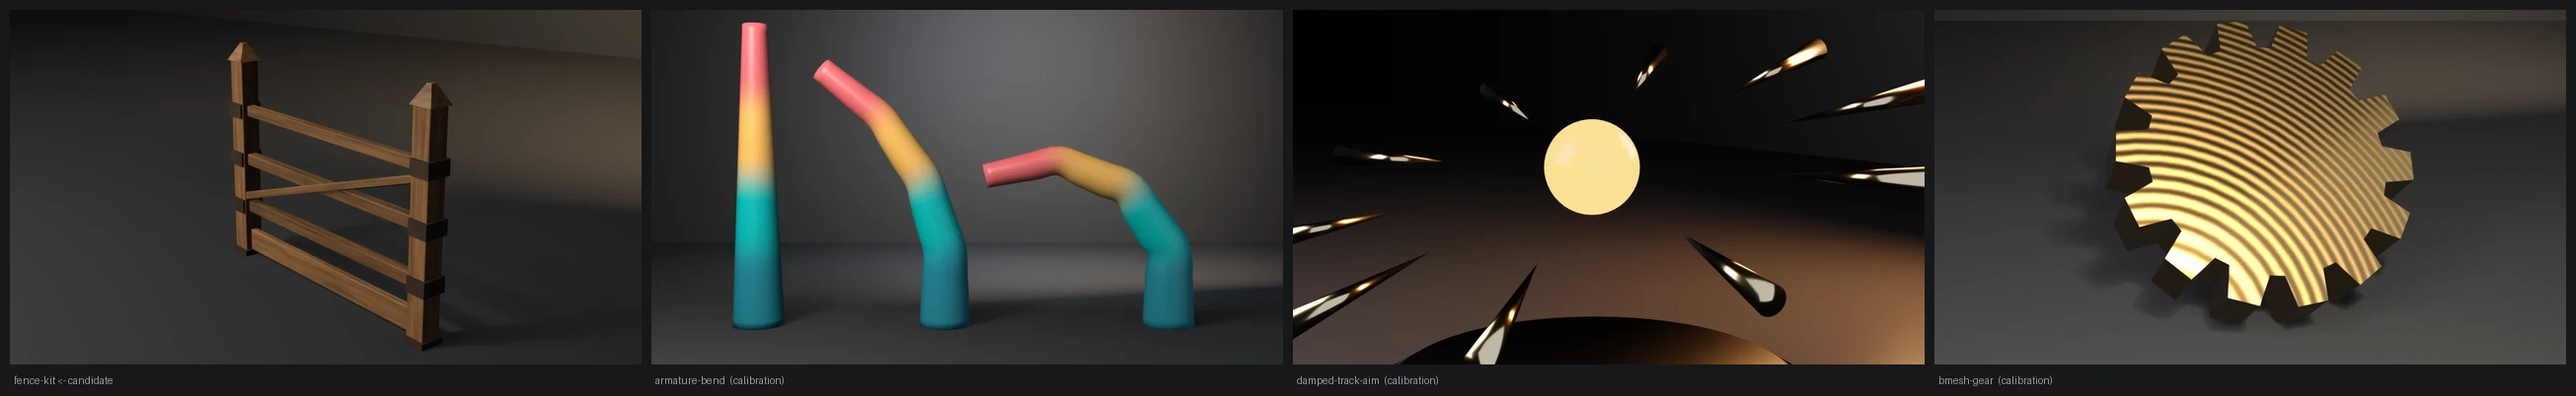
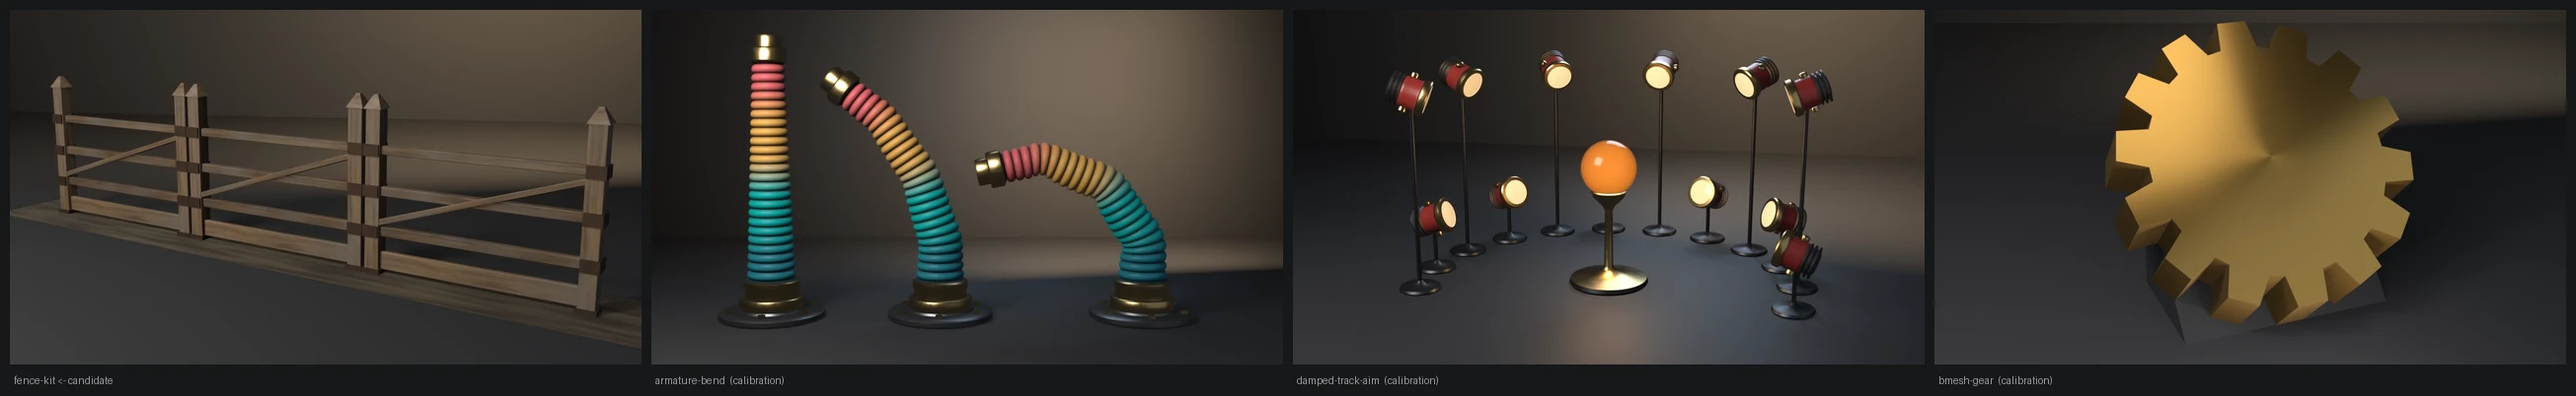
fix(showcase): redesign fence-kit hero as a weathered three-section run
The hero now shows the kit doing its job. Three linked duplicates of the
one checked mesh stand at the 1.60 m tile pitch, so every joint in the
picture is the tile fit the budgets assert: paired posts meet band to band,
KIT_CLEAR apart. The run stands in a render-only packed-earth strip, and the
wood weathers in broad silver-grey patches (object-space noise) over the
per-member tone and grain. Geometry, budgets and falsifiers are unchanged.
The strip and duplicates are staging, and the asset sheet judges the single
FenceLow section.

scripts/asset_sheet.py gains SELECT rows for fence-kit, wooden-ladder and
terrain-scatter, which had none, so the asset-sheet gate could not run on
them.

Evidence (live runs, local):
- E:/Blender-Developer-Tools/.scratch/blender-5.2.1-windows-x64/blender.exe
  (Blender 5.2.1 LTS) and .../blender-4.5.11-windows-x64/blender.exe
  (Blender 4.5.11 LTS): default exit 0 on both. Falsifiers on both:
  --skip-decimate 9, --stray-vert 15, --lift-z 16, --short-shoes 16,
  --short-brace 17, --gap-rails 18, --long-rails 19, --float-brace 20,
  --wide-tile 21, all as documented.
- --output renders on both versions. Framing (5.2.1): fill x=0.894 y=0.678,
  margins l=0.066 r=0.041 b=0.133 t=0.189.
- Contact sheet: candidate luma 0.230 / stage 0.213 / warmth +0.135 /
  sat 0.184, against armature-bend 0.243/0.192/-0.144/0.237, damped-track-aim
  0.237/0.218/+0.105/0.178, and bmesh-gear 0.236/0.177/+0.303/0.250. Every
  axis is inside the calibration band.
[…]

diff --git a/showcase/fence-kit/fence_kit.py b/showcase/fence-kit/fence_kit.py
@@ -590,9 +590,9 @@ def wood_material(name):
     nt.links.new(shift.outputs["Vector"], noise.inputs["Vector"])
     ramp = nt.nodes.new("ShaderNodeValToRGB")
     ramp.color_ramp.elements[0].position = 0.30
-    ramp.color_ramp.elements[0].color = (0.12, 0.052, 0.018, 1.0)
+    ramp.color_ramp.elements[0].color = (0.085, 0.052, 0.030, 1.0)
     ramp.color_ramp.elements[1].position = 0.72
-    ramp.color_ramp.elements[1].color = (0.38, 0.18, 0.065, 1.0)
+    ramp.color_ramp.elements[1].color = (0.30, 0.19, 0.105, 1.0)
     nt.links.new(noise.outputs["Fac"], ramp.inputs["Fac"])
     gain = nt.nodes.new("ShaderNodeMath")
     gain.operation = "MULTIPLY_ADD"
@@ -605,7 +605,23 @@ def wood_material(name):
     _sock(mix.inputs, "Factor_Float").default_value = 1.0
     nt.links.new(ramp.outputs["Color"], _sock(mix.inputs, "A_Color"))
     nt.links.new(gain.outputs["Value"], _sock(mix.inputs, "B_Color"))
-    nt.links.new(_sock(mix.outputs, "Result_Color"), bsdf.inputs["Base Color"])
+    # Weathering: outdoor timber silvers in broad patches, not uniformly.
+    # A coarse object-space noise pulls the grain toward weathered grey.
+    silver = nt.nodes.new("ShaderNodeTexNoise")
+    silver.inputs["Scale"].default_value = 2.4
+    silver.inputs["Detail"].default_value = 4.0
+    nt.links.new(coord.outputs["Object"], silver.inputs["Vector"])
+    patch = nt.nodes.new("ShaderNodeMapRange")
+    patch.inputs["From Min"].default_value = 0.42
+    patch.inputs["From Max"].default_value = 0.68
+    patch.inputs["To Max"].default_value = 0.55
+    nt.links.new(silver.outputs["Fac"], patch.inputs["Value"])
+    weather = nt.nodes.new("ShaderNodeMix")
+    weather.data_type = "RGBA"
+    _sock(weather.inputs, "B_Color").default_value = (0.20, 0.19, 0.17, 1.0)
+    nt.links.new(patch.outputs["Result"], _sock(weather.inputs, "Factor_Float"))
+    nt.links.new(_sock(mix.outputs, "Result_Color"), _sock(weather.inputs, "A_Color"))
+    nt.links.new(_sock(weather.outputs, "Result_Color"), bsdf.inputs["Base Color"])
     rough = nt.nodes.new("ShaderNodeMapRange")
     rough.inputs["To Min"].default_value = 0.72
     rough.inputs["To Max"].default_value = 0.52
@@ -1246,8 +1262,64 @@ def render_still(low, wood, tex, path, engine):
             ob.hide_render = True
             ob.hide_viewport = True
 
-    # Level on the floor: an X tilt sinks one face of the shoes.
-    low.rotation_euler.z = math.radians(-16.0)
+    # The hero is the kit doing its job: three sections at the tile pitch,
+    # linked duplicates of the one checked mesh, so every joint in the
+    # picture is the tile fit the check asserts (posts meet band to band,
+    # KIT_CLEAR apart). A run parent carries the yaw; level on the floor,
+    # since an X tilt sinks one face of the shoes.
+    run = bpy.data.objects.new("FenceRun", None)
+    scene.collection.objects.link(run)
+    run.rotation_euler.z = math.radians(-24.0)
+    sections = [low]
+    for i in (-1, 1):
+        dup = bpy.data.objects.new(f"{low.name}.Run{i:+d}", low.data)
+        scene.collection.objects.link(dup)
+        dup.location.x = i * TILE
+        sections.append(dup)
+    for ob in sections:
+        ob.parent = run
+
+    # A render-only packed-earth strip the run stands in: a low bevelled
+    # slab with a worn centre, so the sections read as installed, not as
+    # props parked on a studio floor. Not part of the asset or its budgets.
+    path_me = bpy.data.meshes.new("PathStrip")
+    bm = bmesh.new()
+    try:
+        bmesh.ops.create_cube(bm, size=1.0)
+        for v in bm.verts:
+            v.co.x *= TILE * 3 + 0.9
+            v.co.y *= 0.78
+            v.co.z = (v.co.z + 0.5) * 0.02 - 0.019
+        bmesh.ops.bevel(bm, geom=sorted(bm.edges, key=lambda e: e.index), offset=0.012,
+                        segments=2, affect="EDGES", profile=0.5, clamp_overlap=True)
+        bm.to_mesh(path_me)
+    finally:
+        bm.free()
+    for poly in path_me.polygons:
+        poly.use_smooth = True
+    pmat = bpy.data.materials.new("PackedEarth")
+    pmat.use_nodes = True
+    pnt = pmat.node_tree
+    pb = pnt.nodes["Principled BSDF"]
+    pnoise = pnt.nodes.new("ShaderNodeTexNoise")
+    pnoise.inputs["Scale"].default_value = 9.0
+    pnoise.inputs["Detail"].default_value = 8.0
+    pramp = pnt.nodes.new("ShaderNodeValToRGB")
+    pramp.color_ramp.elements[0].position = 0.35
+    pramp.color_ramp.elements[0].color = (0.035, 0.026, 0.018, 1.0)
+    pramp.color_ramp.elements[1].position = 0.70
+    pramp.color_ramp.elements[1].color = (0.11, 0.085, 0.055, 1.0)
+    pnt.links.new(pnoise.outputs["Fac"], pramp.inputs["Fac"])
+    pnt.links.new(pramp.outputs["Color"], pb.inputs["Base Color"])
+    pb.inputs["Roughness"].default_value = 0.92
+    pbump = pnt.nodes.new("ShaderNodeBump")
+    pbump.inputs["Strength"].default_value = 0.35
+    pnt.links.new(pnoise.outputs["Fac"], pbump.inputs["Height"])
+    pnt.links.new(pbump.outputs["Normal"], pb.inputs["Normal"])
+    path_me.materials.append(pmat)
+    strip = bpy.data.objects.new("PathStrip", path_me)
+    scene.collection.objects.link(strip)
+    strip.parent = run
 
     floor_me = bpy.data.meshes.new("Floor")
     bm = bmesh.new()
@@ -1291,12 +1363,12 @@ def render_still(low, wood, tex, path, engine):
     light("Wedge", (2.4, 4.2, 4.1), 640.0, 5.5, (1.0, 0.70, 0.40), (-70, 0, 198))
 
     cam_data = bpy.data.cameras.new("Cam")
-    cam_data.lens = 50.0
+    cam_data.lens = 45.0
     cam = bpy.data.objects.new("Cam", cam_data)
-    cam.location = (2.50, -3.46, 1.95)
+    cam.location = (1.30, -5.60, 1.70)
     scene.collection.objects.link(cam)
     aim = bpy.data.objects.new("Aim", None)
-    aim.location = (0.0, 0.0, 0.58)
+    aim.location = (0.42, -0.18, 0.55)
     scene.collection.objects.link(aim)
     con = cam.constraints.new("TRACK_TO")
     con.target = aim
@@ -1324,7 +1396,7 @@ def render_still(low, wood, tex, path, engine):
     scene.view_settings.view_transform = "Standard"
 
     fcode = gallery_framing.check_framing(
-        scene, cam, hero=[low], elements=[low], stage=[floor, wall],
+        scene, cam, hero=sections, elements=sections, stage=[floor, wall, strip],
     )
     if fcode:
         return fcode

diff --git a/scripts/asset_sheet.py b/scripts/asset_sheet.py
@@ -67,6 +67,10 @@ SELECT = {
     "grain-sacks": (r"^SacksLow$", None),
     "rope-bridge": (r"^BridgeLow$", None),
     "wheelbarrow": (r"^BarrowLow$", None),
+    # the hero shows a three-section run; the sheet judges the one asset
+    "fence-kit": (r"^FenceLow$", None),
+    "wooden-ladder": (r"^LadderLow$", None),
+    "terrain-scatter": (r"^TerrainLow$", None),
     "triangulate-tangents": (r"^Buckler(\.Rivets)?$", None),
     "car-mirror-symmetry": (r"^(CarBody|Wheel(Front|Rear)|Headlamp|Taillamp|Grille"
                             r"|DoorMirror|DoorHandle(Front|Rear))$", None),

diff --git a/README.md b/README.md
@@ -117,7 +117,7 @@ Budget-conformance props. Not examples. Conventions: [`showcase/README.md`](show
   <a href="showcase/street-lantern/"><img src="showcase/street-lantern/preview.webp" width="24%" alt="Street lantern: an iron post with aged brass collars, a knee brace tenoned into post and arm, and a muntined amber cage on a dark studio floor" /></a>
   <a href="showcase/treasure-chest/"><img src="showcase/treasure-chest/preview.webp" width="24%" alt="Treasure chest: a slatted wooden chest with iron bands, corner brackets, and an open lid on a dark studio floor" /></a>
   <a href="showcase/terrain-scatter/"><img src="showcase/terrain-scatter/preview.webp" width="24%" alt="Terrain scatter: a Geometry Nodes dirt hill tile with bevelled masonry rocks on a dark studio floor" /></a>
-  <a href="showcase/fence-kit/"><img src="showcase/fence-kit/preview.webp" width="24%" alt="Fence kit: a grained timber post-and-rail section with pyramidal caps, a diagonal board brace, and iron shoes and bands on a dark studio floor" /></a>
+  <a href="showcase/fence-kit/"><img src="showcase/fence-kit/preview.webp" width="24%" alt="Fence kit: a run of three weathered post-and-rail sections on a packed-earth strip, joined post to post at the 1.60 m tile pitch, with pyramidal caps, diagonal board braces, and iron bands" /></a>
   <a href="showcase/watchtower/"><img src="showcase/watchtower/preview.webp" width="24%" alt="Watchtower: a grained timber lookout with X-braces, hatch ladder, a plank platform on deck girts, and a coursed shake roof on a dark studio floor" /></a>
   <a href="showcase/cart/"><img src="showcase/cart/preview.webp" width="24%" alt="Cart: a two-wheel wooden cart with spoked wheels, slatted bed, and shafts on a dark studio floor" /></a>
   <a href="showcase/park-bench/"><img src="showcase/park-bench/preview.webp" width="24%" alt="Park bench: a wrought-iron bench whose round-bar legs curl into scrolled feet, with wooden slats and a reclined back, on a dark studio floor" /></a>

diff --git a/showcase/fence-kit/README.md b/showcase/fence-kit/README.md
@@ -17,6 +17,14 @@ rail and housed 12 mm into both posts. It clears the bottom rail at the left
 post and the top rail at the right one. Rails and kick tenon into the post
 volume.
 
+**Hero.** The still shows the kit doing its job: three linked duplicates of
+the one checked mesh at the 1.60 m pitch, so every joint in the picture is
+the tile fit the budgets assert — the paired posts meet band to band,
+`KIT_CLEAR` apart. The run stands in a render-only packed-earth strip, and
+the wood weathers in broad silver-grey patches (object-space noise) over
+the per-member tone and grain. The strip and the duplicates are staging;
+the asset sheet judges the single `FenceLow` section.
+
 It asserts **budget conformance** of the generated result. It does not
 witness an API contract. "It rendered without error" is not a check. This
 piece does not re-witness the `modular-kit-snap` snap contract.
